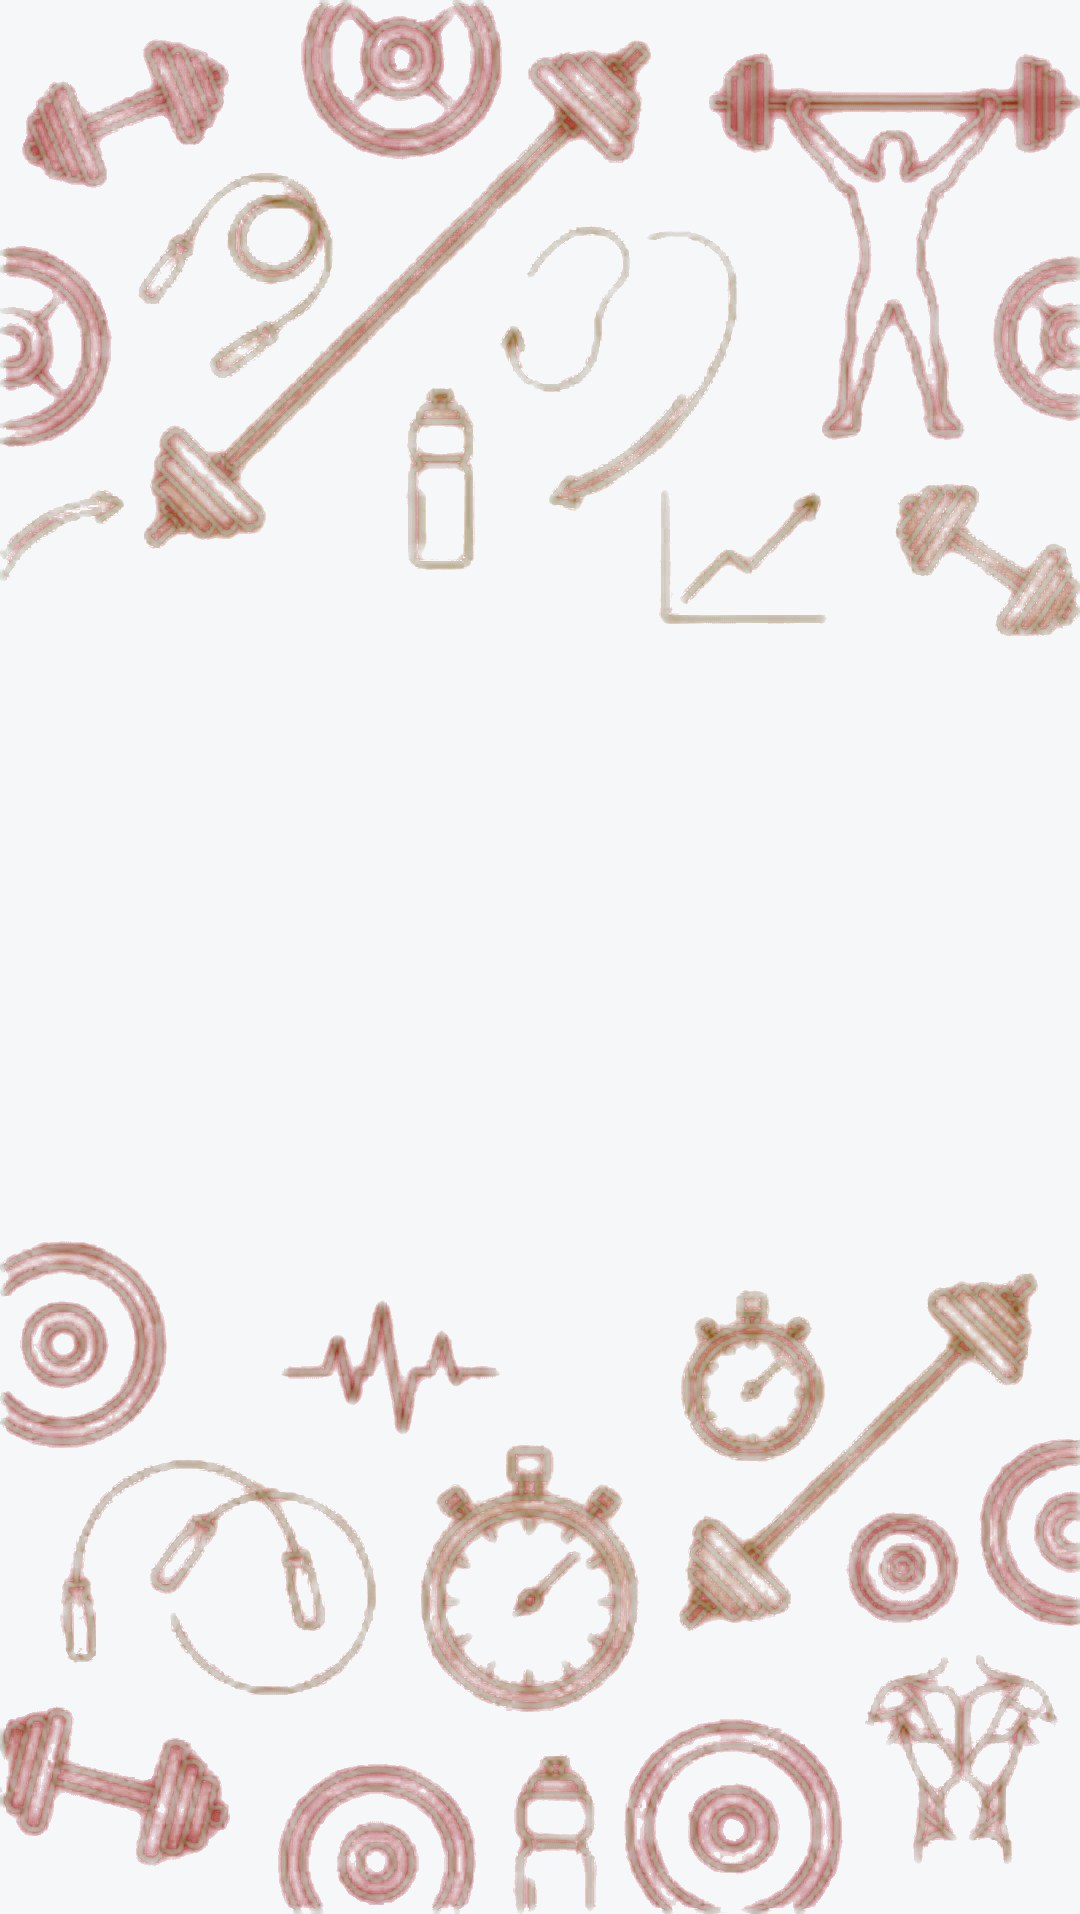
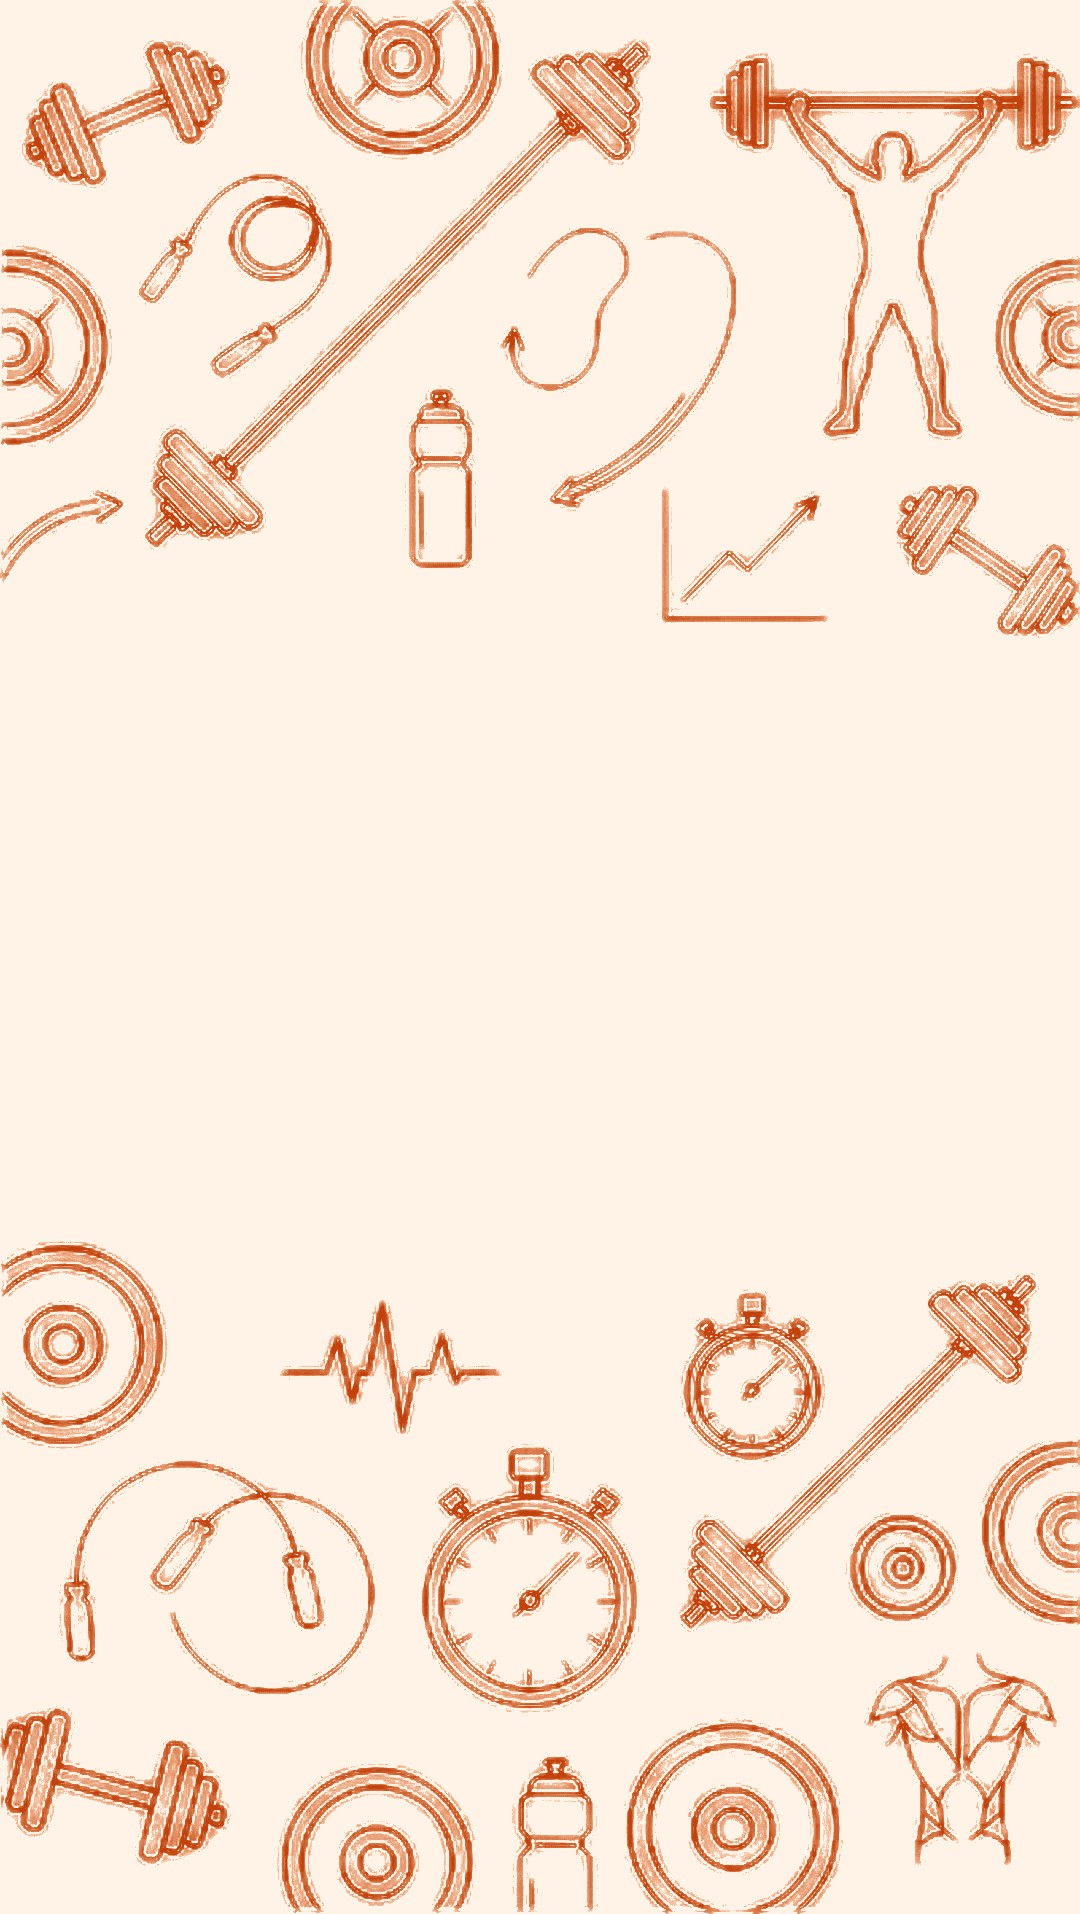
Add files via upload

diff --git a/index.html b/index.html
@@ -53,7 +53,11 @@ html[data-bg="1"] footer.app{background:color-mix(in srgb,var(--bg) 70%,transpar
 /* tema claro usa a arte na versao clara, com traco forte e fundo do mesmo tom da pagina */
 html[data-theme="light"] #bgart{background-image:url("fundo-claro.jpg")}
 html[data-theme="light"] #bgart::after{
-  background:radial-gradient(ellipse 58% 66% at 50% 45%, rgba(246,247,249,.72) 0%, rgba(246,247,249,.42) 55%, rgba(246,247,249,.10) 100%)}
+  background:radial-gradient(ellipse 58% 66% at 50% 45%, rgba(255,242,230,.80) 0%, rgba(255,242,230,.46) 55%, rgba(255,242,230,.10) 100%)}
+/* com a arte ligada, o tema claro fica num creme quente, do mesmo tom do desenho */
+html[data-theme="light"][data-bg="1"]{
+  --bg:#fff2e6; --surface:#fffaf4; --surface2:#fdf0e3; --surface3:#f8e4d2;
+  --border:#f0dcc6; --text2:#6b6158; --text3:#93877c; --grid:#f0dcc6}
 html[data-theme="light"][data-bg="1"] .card{background:color-mix(in srgb,var(--surface) 88%,transparent)}
 html[data-theme="light"][data-bg="1"] .stat,html[data-theme="light"][data-bg="1"] .item,
 html[data-theme="light"][data-bg="1"] .ex,html[data-theme="light"][data-bg="1"] .mvcard,
@@ -392,7 +396,7 @@ footer.app .wrap{display:flex;gap:10px;justify-content:space-between;flex-wrap:w
 
 <footer class="app">
   <div class="wrap">
-    <span>Rise<span style="color:var(--accent);font-weight:700">ONE</span> · <span id="vertxt">v2.2.1</span></span>
+    <span>Rise<span style="color:var(--accent);font-weight:700">ONE</span> · <span id="vertxt">v2.2.3</span></span>
     <span><a href="#" id="legalbtn" data-i18n="footer.legal">Aviso legal e privacidade</a></span>
   </div>
 </footer>
@@ -405,7 +409,7 @@ footer.app .wrap{display:flex;gap:10px;justify-content:space-between;flex-wrap:w
    RiseONE — app de treino, dieta e evolucao
    Arquivo unico. Tudo roda no navegador do usuario.
    ===================================================================== */
-const APP_VERSION = "2.2.1";
+const APP_VERSION = "2.2.3";
 const AD_URL = "https://marceloneco.github.io/";
 
 /* ---------- 1. DICIONARIO PT/EN  [pt, en] ---------- */
@@ -3164,9 +3168,20 @@ SCREENS.coach_after = function(){
   document.querySelectorAll("[data-wcode]").forEach(b=>b.onclick=()=>codeModal([STATE.workouts.find(w=>w.id===b.getAttribute("data-wcode"))]));
   document.querySelectorAll("[data-code]").forEach(b=>b.onclick=()=>codeModal(STATE.workouts));
 };
+/* texto <-> base64 usando TextEncoder/TextDecoder (sem escape/unescape, que são obsoletos) */
+function textoParaB64(txt){
+  const bytes=new TextEncoder().encode(txt);
+  let bin=""; for(let i=0;i<bytes.length;i++) bin+=String.fromCharCode(bytes[i]);
+  return btoa(bin);
+}
+function b64ParaTexto(b64){
+  const bin=atob(b64), bytes=new Uint8Array(bin.length);
+  for(let i=0;i<bin.length;i++) bytes[i]=bin.charCodeAt(i);
+  return new TextDecoder().decode(bytes);
+}
 function makeCode(workouts){
   const payload={v:1, w:(workouts||[]).filter(Boolean).map(w=>({name:w.name,days:w.days,items:w.items})), d:STATE.diet};
-  return "RISE1:"+btoa(unescape(encodeURIComponent(JSON.stringify(payload))));
+  return "RISE1:"+textoParaB64(JSON.stringify(payload));
 }
 function codeModal(workouts){
   const code=makeCode(workouts);
@@ -3182,7 +3197,7 @@ function applyCoachCode(code){
   code=String(code||"").trim();
   if(code.indexOf("RISE1:")!==0){ toast(t("tr.badCode")); return; }
   try{
-    const p=JSON.parse(decodeURIComponent(escape(atob(code.slice(6)))));
+    const p=JSON.parse(b64ParaTexto(code.slice(6)));
     (p.w||[]).forEach(w=>STATE.workouts.push({id:uid(), name:w.name, days:w.days||[], items:w.items||[], fromCoach:true}));
     if(p.d && p.d.kcal) STATE.diet=Object.assign({},STATE.diet,p.d);
     save(); toast(t("tr.applied")); go("workout");

diff --git a/sw.js b/sw.js
@@ -1,7 +1,7 @@
 /* RiseONE — service worker
    Guarda o app para abrir sem internet e recebe as notificacoes.
    Troque CACHE_VER ao publicar uma versao nova. */
-const CACHE_VER = "riseone-v2.2.1";
+const CACHE_VER = "riseone-v2.2.3";
 const CORE = ["./", "./index.html", "./manifest.json", "./icone-192.png", "./icone-512.png", "./icone-maskable.png", "./fundo.jpg", "./fundo-celular.jpg", "./fundo-claro.jpg", "./fundo-claro-celular.jpg"];
 
 self.addEventListener("install", ev => {

diff --git a/README.md b/README.md
@@ -26,8 +26,8 @@ Site: https://marceloneco.github.io/rise-one/
 - **Assistente de IA** — perguntas de treino e dieta usando a chave do próprio usuário
   (Google Gemini, OpenAI ou Anthropic Claude), com a opção de enviar junto os dados da anamnese.
 - **Arte de fundo** — imagem de academia em traço laranja sobre fundo escuro, com versão deitada para
-  computador e em pé para celular, e uma versão clara (traço terracota sobre fundo claro) que entra
-  sozinha quando o tema muda para dia. Liga e desliga pelo botão ▨ do cabeçalho.
+  computador e em pé para celular, e uma versão clara (traço laranja escuro sobre fundo laranja bem claro) que
+  entra sozinha quando o tema muda para dia, junto com uma paleta creme quente na interface. Liga e desliga pelo botão ▨ do cabeçalho.
 - **Anamnese** — data de nascimento (idade calculada sozinha), sexo, altura e peso com IMC e gasto
   calórico na hora; objetivo, tempo de treino, dias por semana e onde treina; lesões e dores por região,
   que passam a marcar com ⚠ os exercícios daquela área; e saúde geral (pressão, diabetes, coração,
@@ -100,4 +100,4 @@ Uso pessoal e para fins de estudo e pesquisa. As informações sobre exercícios
 saúde são informativas e não substituem profissional de educação física, nutricionista ou médico.
 
 ---
-Versão 2.2.1
+Versão 2.2.3
